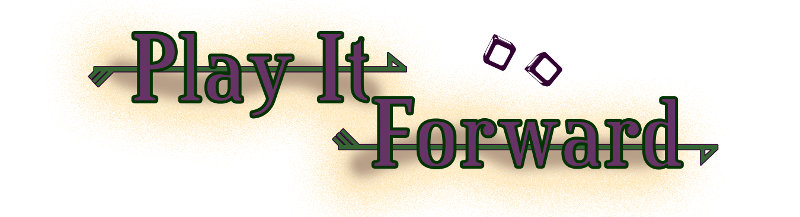
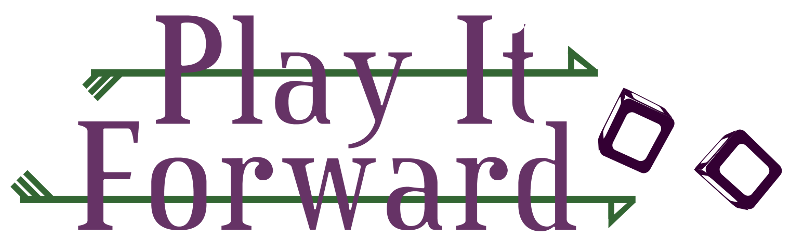
Removing dead graphics, header css, menu re-order

diff --git a/grails-app/assets/stylesheets/components/header.css b/grails-app/assets/stylesheets/components/header.css
@@ -1,3 +1,4 @@
 .header {
     position: relative;
+    margin: 10px 0 10px 10px;
 }
